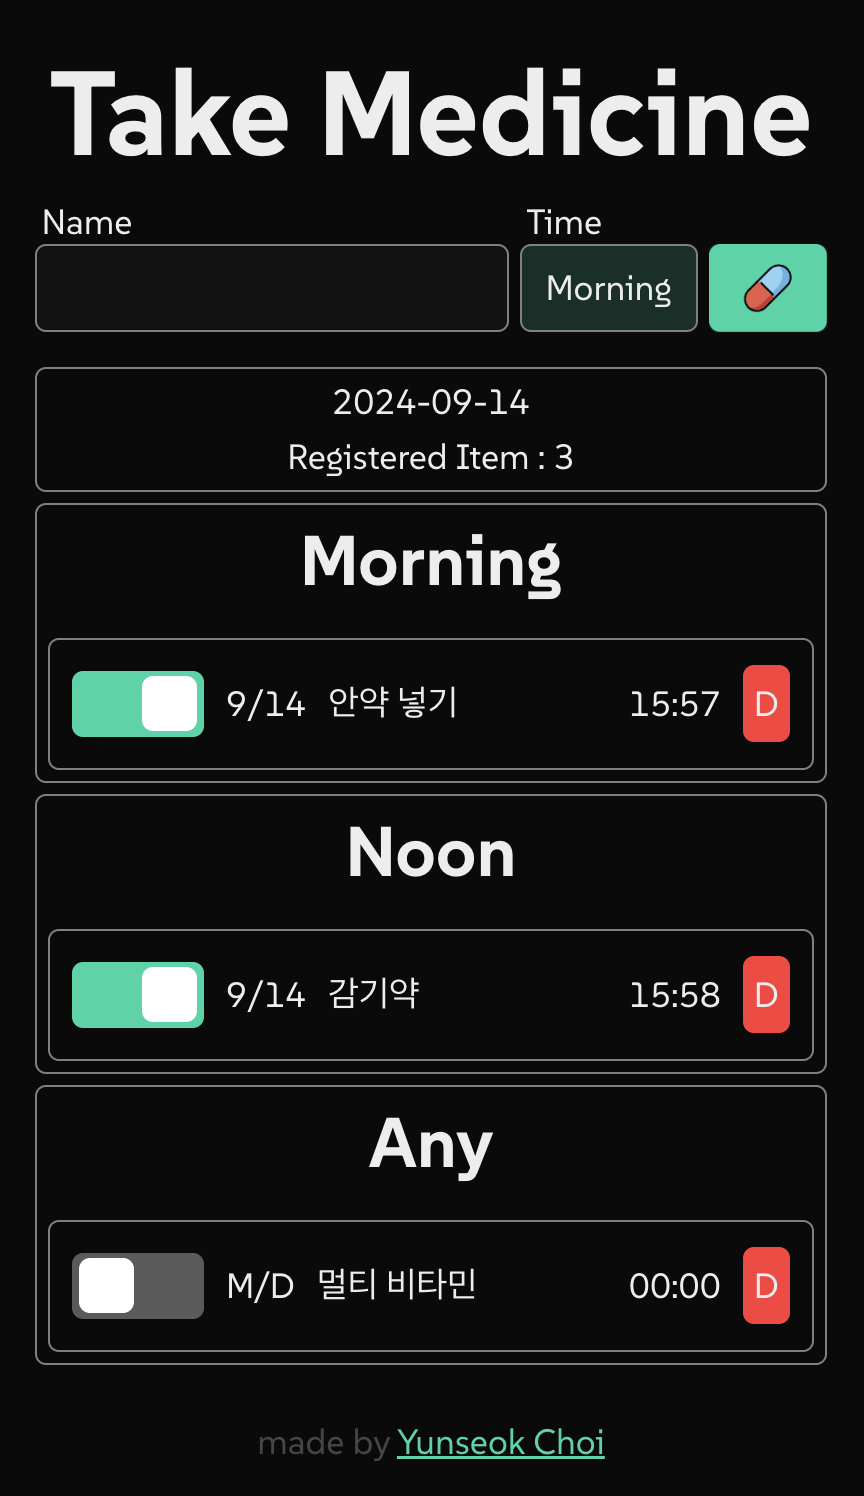
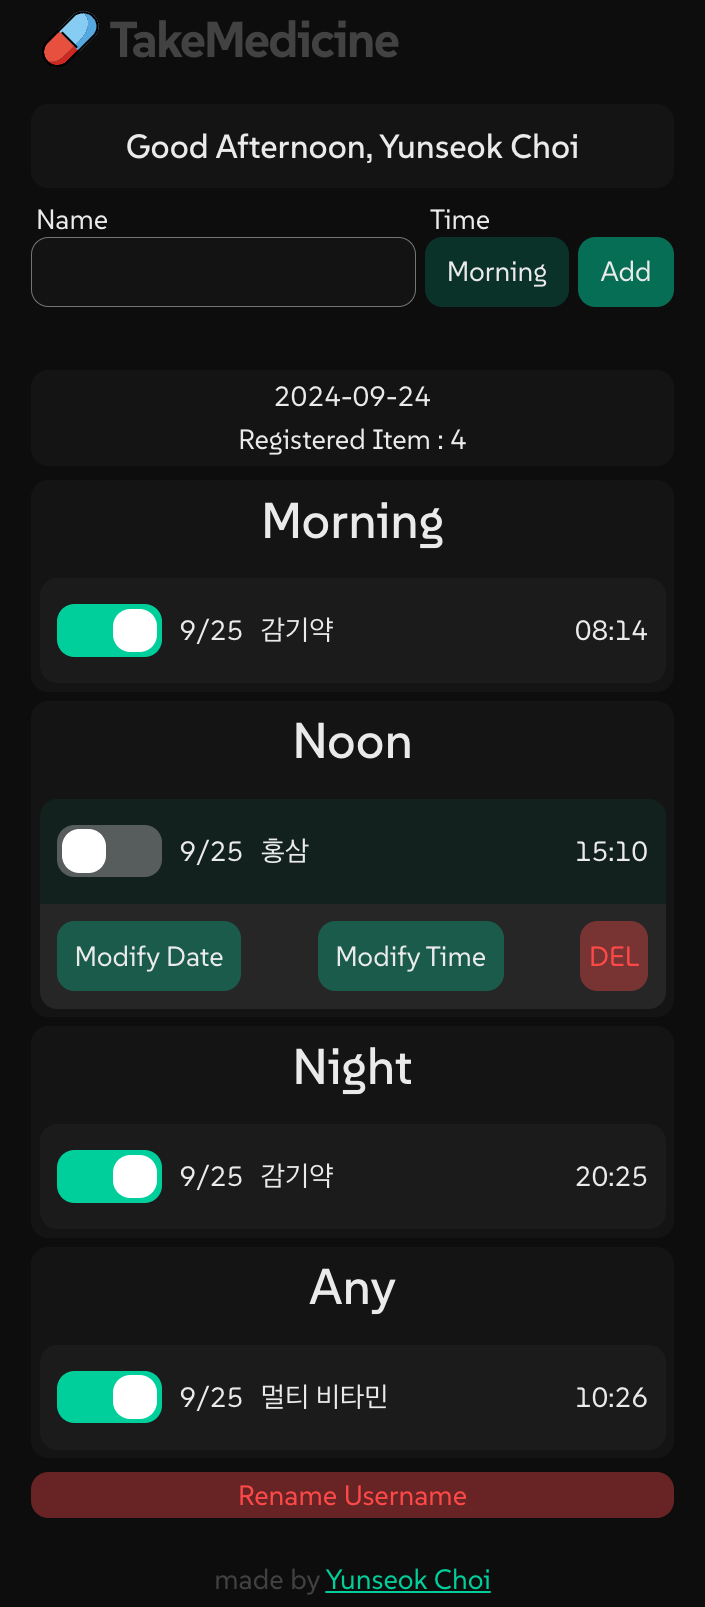
[docs,feat,bugfix]readme 이미지 업데이트, 아이템 전체삭제 기능 구현, 토글 날짜 인식 버그수정

diff --git a/app/components/modals/ModalToResetItem.tsx b/app/components/modals/ModalToResetItem.tsx
@@ -1,23 +1,28 @@
 "use client";
+import useFormStore from "@/app/store/useFormStore";
 /** @jsxImportSource @emotion/react */
 
 import useModalStore from "@/app/store/useModalStore";
-import useUserNameStore from "@/app/store/useUserNameStore";
 import { modalSt } from "@/app/style/modalSt";
 
-const ModalToRename = () => {
-  const { userName } = useUserNameStore();
+const ModalToResetItem = () => {
   const { whichModal, setWhichModal } = useModalStore();
+  const { setList } = useFormStore();
 
   const clickResetUserName = () => {
-    localStorage.removeItem("userName");
-    window.location.reload();
+    setList({
+      Morning: [],
+      Noon: [],
+      Night: [],
+      Any: [],
+    });
+    setWhichModal(null);
   };
 
   return (
     <div
       onClick={() => setWhichModal(null)}
-      css={modalSt.background(whichModal, "renameUsername")}
+      css={modalSt.background(whichModal, "resetItems")}
     >
       <div
         onClick={(e) => {
@@ -26,18 +31,14 @@ const ModalToRename = () => {
         css={modalSt.container}
       >
         <div css={modalSt.textContainer}>
-          <p css={modalSt.text}>
-            Do you really want to change your name,{" "}
-            <span css={modalSt.itemName}>{userName}</span>?
-          </p>
-          <p css={modalSt.subText}>* the items will not be deleted.</p>
+          <p css={modalSt.text}>Do you really want to reset all the items?</p>
         </div>
         <div css={modalSt.btnContainer}>
           <button onClick={() => setWhichModal(null)} css={modalSt.cancelBtn}>
             CANCEL
           </button>
           <button onClick={() => clickResetUserName()} css={modalSt.delBtn}>
-            DELETE
+            DELETE ALL
           </button>
         </div>
       </div>
@@ -45,4 +46,4 @@ const ModalToRename = () => {
   );
 };
 
-export default ModalToRename;
+export default ModalToResetItem;

diff --git a/app/style/outlineSt.ts b/app/style/outlineSt.ts
@@ -1,5 +1,5 @@
 import { css } from "@emotion/react";
-import { colors, flexCenterX2 } from "./commonSt";
+import { colors, flexCenterX2, flexColumnCenterX2 } from "./commonSt";
 
 export const outlineSt = {
   header: css`
@@ -10,13 +10,9 @@ export const outlineSt = {
     align-items: center;
     width: 100%;
     height: 3rem;
-    background-color: #0a0a0ae6;
-    backdrop-filter: blur(10px);
+    background-color: transparent;
+    backdrop-filter: blur(15px);
     z-index: 100;
-
-    @media (prefers-color-scheme: light) {
-      background-color: #ffffffe6;
-    }
   `,
   h1: css`
     color: ${colors.grey}80;
@@ -42,17 +38,37 @@ export const outlineSt = {
       font-weight: 500;
     `;
   },
+  resetBtnContainer: css`
+    ${flexColumnCenterX2}
+    gap: 5px;
+    width: 100%;
+  `,
   resetUserNameBtn: css`
     width: 100%;
+    height: 3rem;
     padding: 0.2rem;
     border: none;
     border-radius: 10px;
-    background-color: ${colors.red}60;
+    background-color: ${colors.green}40;
+    transition: 0.3s;
+
+    &:hover {
+      background-color: ${colors.green}30;
+      transform: scale(0.98);
+    }
+  `,
+  resetItemNameBtn: css`
+    width: 100%;
+    height: 3rem;
+    padding: 0.2rem;
+    border: none;
+    border-radius: 10px;
+    background-color: ${colors.red}40;
     color: ${colors.red};
     transition: 0.3s;
 
     &:hover {
-      background-color: ${colors.red}50;
+      background-color: ${colors.red}30;
       transform: scale(0.98);
     }
   `,

diff --git a/app/components/modals/ModalToResetUsername.tsx b/app/components/modals/ModalToResetUsername.tsx
@@ -1,0 +1,48 @@
+"use client";
+/** @jsxImportSource @emotion/react */
+
+import useModalStore from "@/app/store/useModalStore";
+import useUserNameStore from "@/app/store/useUserNameStore";
+import { modalSt } from "@/app/style/modalSt";
+
+const ModalToResetUsername = () => {
+  const { userName } = useUserNameStore();
+  const { whichModal, setWhichModal } = useModalStore();
+
+  const clickResetUserName = () => {
+    localStorage.removeItem("userName");
+    window.location.reload();
+  };
+
+  return (
+    <div
+      onClick={() => setWhichModal(null)}
+      css={modalSt.background(whichModal, "resetUsername")}
+    >
+      <div
+        onClick={(e) => {
+          e.stopPropagation();
+        }}
+        css={modalSt.container}
+      >
+        <div css={modalSt.textContainer}>
+          <p css={modalSt.text}>
+            Do you really want to change your name,{" "}
+            <span css={modalSt.itemName}>{userName}</span>?
+          </p>
+          <p css={modalSt.subText}>* the items will not be deleted.</p>
+        </div>
+        <div css={modalSt.btnContainer}>
+          <button onClick={() => setWhichModal(null)} css={modalSt.cancelBtn}>
+            CANCEL
+          </button>
+          <button onClick={() => clickResetUserName()} css={modalSt.delBtn}>
+            DELETE
+          </button>
+        </div>
+      </div>
+    </div>
+  );
+};
+
+export default ModalToResetUsername;

diff --git a/app/page.tsx b/app/page.tsx
@@ -1,13 +1,14 @@
 import CreateItemForm from "./components/CreateItemForm";
 import ErrorMsg from "./components/ErrorMsg";
 import ItemSection from "./components/ItemSection";
-import InfoSec from "./components/InfoSec";
 import UserNameSection from "./components/UserNameSection";
-import UserNameRenameBtn from "./components/UserNameRenameBtn";
+import UserNameRenameBtn from "./components/ResetButtons";
 import ModalToDeleteItem from "./components/modals/ModalToDeleteItem";
 import ModalToModifyTime from "./components/modals/ModalToModifyTime";
-import ModalToRename from "./components/modals/ModalToRename";
 import ModalToModifyDate from "./components/modals/ModalToModifyDate";
+import ModalToResetItem from "./components/modals/ModalToResetItem";
+import ModalToResetUsername from "./components/modals/ModalToResetUsername";
+import InfoSection from "./components/InfoSection";
 
 const Home = () => {
   return (
@@ -15,13 +16,14 @@ const Home = () => {
       <UserNameSection />
       <CreateItemForm />
       <ErrorMsg />
-      <InfoSec />
+      <InfoSection />
       <ItemSection />
       <ModalToDeleteItem />
       <ModalToModifyTime />
       <UserNameRenameBtn />
       <ModalToModifyDate />
-      <ModalToRename />
+      <ModalToResetUsername />
+      <ModalToResetItem />
     </main>
   );
 };

diff --git a/app/components/InfoSection.tsx b/app/components/InfoSection.tsx
@@ -9,7 +9,7 @@ import { getKoreanDate } from "../utils/getKoreanDate";
 import { itemSectionSt } from "../style/itemSectionSt";
 import { css } from "@emotion/react";
 
-const InfoSec = () => {
+const InfoSection = () => {
   const { list } = useFormStore();
   const { lastCheckedDate, setLastCheckedDate, setIsDateChanged } =
     useDateStore();
@@ -34,7 +34,7 @@ const InfoSec = () => {
       position: sticky;
       top: 3rem;
       background-color: #151515e6;
-      backdrop-filter: blur(10px);
+      backdrop-filter: blur(5px);
       z-index: 1;
 
       @media (prefers-color-scheme: light) {
@@ -51,4 +51,4 @@ const InfoSec = () => {
   );
 };
 
-export default InfoSec;
+export default InfoSection;

diff --git a/app/components/ResetButtons.tsx b/app/components/ResetButtons.tsx
@@ -1,0 +1,28 @@
+"use client";
+/** @jsxImportSource @emotion/react */
+
+import useModalStore from "../store/useModalStore";
+import { outlineSt } from "../style/outlineSt";
+
+const ResetButtons = () => {
+  const { setWhichModal } = useModalStore();
+
+  return (
+    <div css={outlineSt.resetBtnContainer}>
+      <button
+        onClick={() => setWhichModal("resetUsername")}
+        css={outlineSt.resetUserNameBtn}
+      >
+        Rename Username
+      </button>
+      <button
+        onClick={() => setWhichModal("resetItems")}
+        css={outlineSt.resetItemNameBtn}
+      >
+        Reset Items
+      </button>
+    </div>
+  );
+};
+
+export default ResetButtons;

diff --git a/app/components/UserNameInput.tsx b/app/components/UserNameInput.tsx
@@ -73,7 +73,11 @@ const UserNameInput = () => {
             css={userNameInputSt.formContainer}
           >
             <label htmlFor="userNameInput">{question}</label>
-            <form onSubmit={submitForm} css={userNameInputSt.form}>
+            <form
+              id="usernameForm"
+              onSubmit={submitForm}
+              css={userNameInputSt.form}
+            >
               <input
                 id="userNameInput"
                 autoComplete="off"

diff --git a/app/hooks/toggleIsTaken.ts b/app/hooks/toggleIsTaken.ts
@@ -13,8 +13,8 @@ export const toggleIsTaken = ({
 }: ToggleIsTakeProps) => {
   const today = new Date();
   const year = today.getFullYear();
-  const month = today.getMonth() + 1;
-  const day = today.getDate() + 1;
+  const month = String(today.getMonth() + 1).padStart(2, "0");
+  const day = today.getDate();
   const hours = today.getHours();
   const minutes = today.getMinutes();
   setList((prev) => ({

diff --git a/app/globals.css b/app/globals.css
@@ -30,7 +30,7 @@ body {
   align-items: center;
   row-gap: 5px;
   max-width: 700px;
-  width: 90%;
+  width: 100%;
   min-width: 360px;
 }
 
@@ -59,7 +59,7 @@ main {
   flex-direction: column;
   align-items: center;
   gap: 0.5rem;
-  width: 100%;
+  width: 90%;
 }
 
 @media (prefers-color-scheme: dark) {

diff --git a/app/style/modalSt.ts b/app/style/modalSt.ts
@@ -64,10 +64,10 @@ export const modalSt = {
     font-size: 1.2rem;
   `,
   dateInput: css`
-    width: 60%;
+    width: 65%;
     height: 40px;
     text-align: center;
-    border: none;
+    border: 1px solid grey;
     border-radius: 10px;
     background-color: ${colors.grey}30;
     font-size: 1.2rem;

diff --git a/app/style/itemSectionSt.ts b/app/style/itemSectionSt.ts
@@ -25,7 +25,7 @@ export const itemSectionSt = {
     flexCenterX2,
     css`
       width: 100%;
-      height: 80px;
+      height: 10rem;
       border: none;
       border-radius: 10px;
       background-color: ${colors.grey}12;

diff --git a/app/types/types.ts b/app/types/types.ts
@@ -17,7 +17,8 @@ export interface listProps {
 
 export interface modalList {
   deleteItem: string;
-  renameUsername: string;
+  resetUsername: string;
   modifyTime: string;
   modifyDate: string;
+  resetItems: string;
 }
